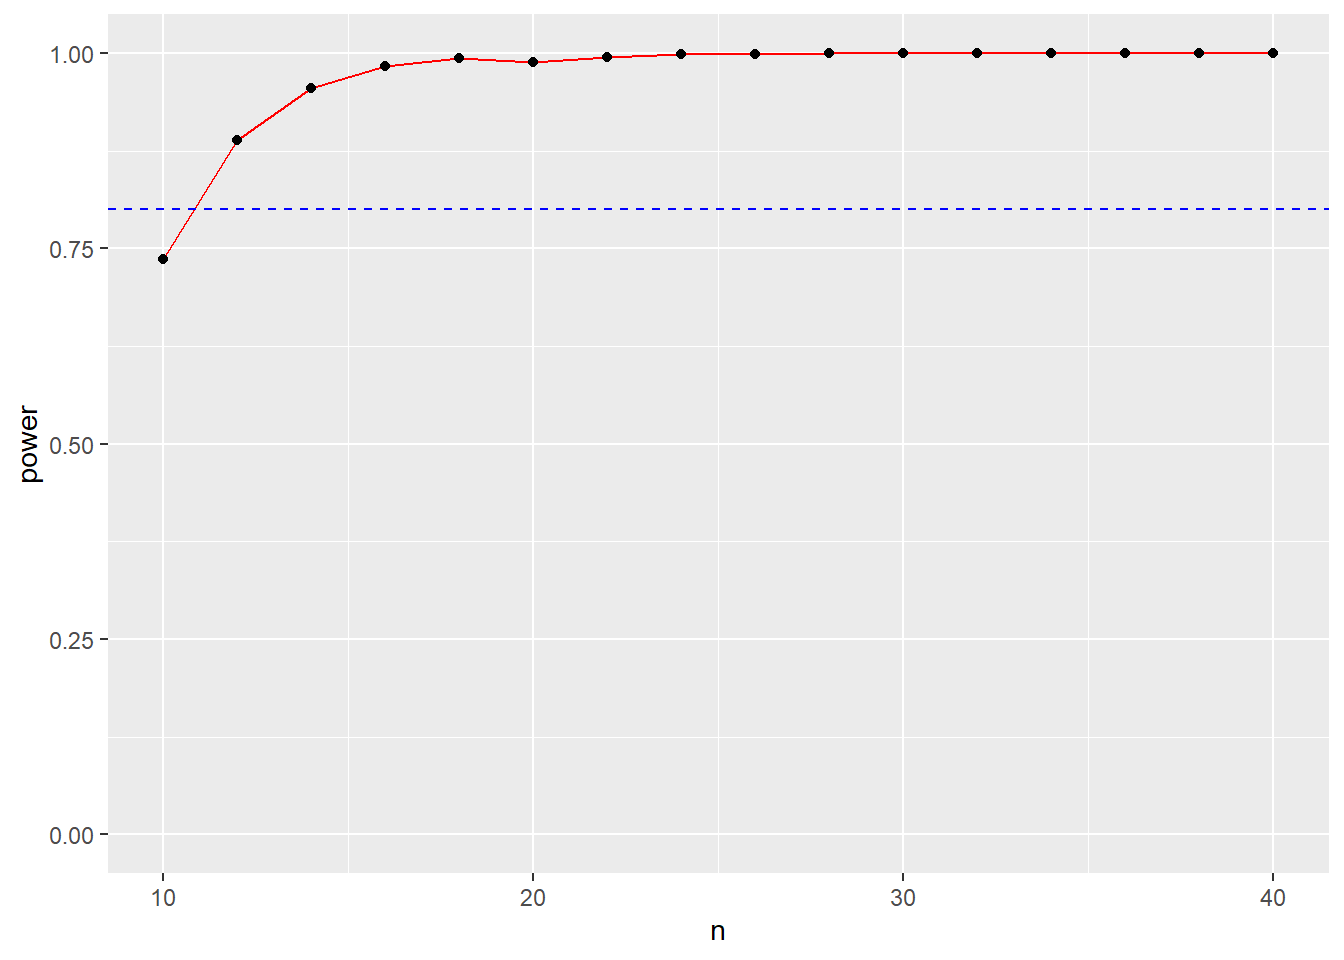
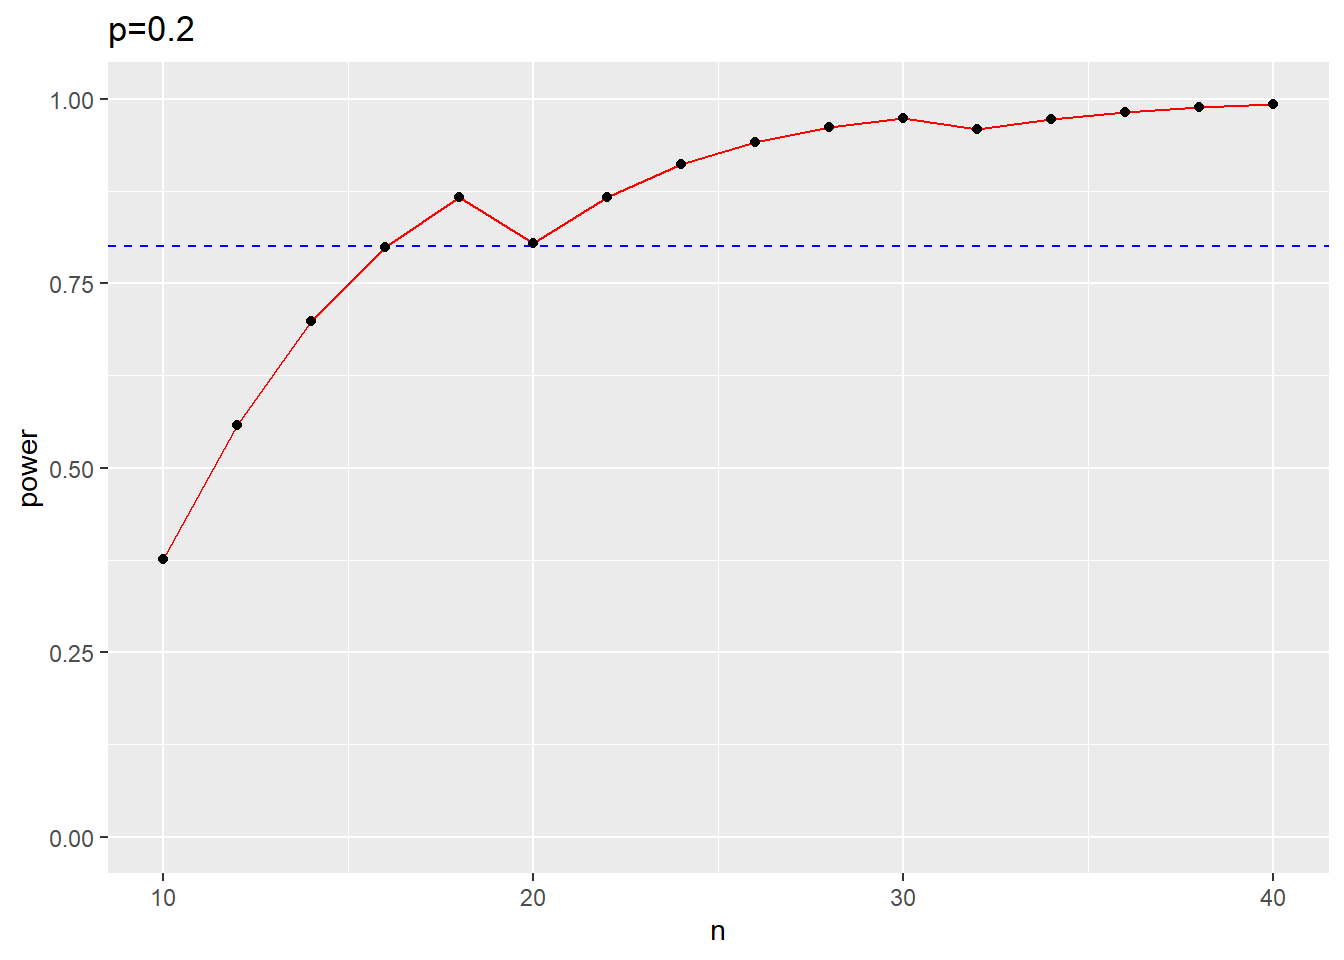
2/9/2022

diff --git a/docs/2022_Feb.html b/docs/2022_Feb.html
@@ -381,7 +381,7 @@ div.tocify {
 <div class="tab-content">
 <div id="summary" class="tab-pane fade in active">
 <p>
-<strong>Last updated:</strong> 2022-02-08
+<strong>Last updated:</strong> 2022-02-09
 </p>
 <p>
 <strong>Checks:</strong> <span class="glyphicon glyphicon-ok text-success" aria-hidden="true"></span> 6 <span class="glyphicon glyphicon-exclamation-sign text-danger" aria-hidden="true"></span> 1
@@ -472,16 +472,16 @@ This reproducible <a href="https://rmarkdown.rstudio.com">R Markdown</a> analysi
 <div class="panel panel-default">
 <div class="panel-heading">
 <p class="panel-title">
-<a data-toggle="collapse" data-parent="#workflowr-checks" href="#strongRepositoryversionstrongahrefhttpsgithubcomhan16Collaborationstreeb036da97acfa0d7bb560536bf6e6b34536bb8462targetblankb036da9a"> <span class="glyphicon glyphicon-ok text-success" aria-hidden="true"></span> <strong>Repository version:</strong> <a href="https://github.com/han16/Collaborations/tree/b036da97acfa0d7bb560536bf6e6b34536bb8462" target="_blank">b036da9</a> </a>
+<a data-toggle="collapse" data-parent="#workflowr-checks" href="#strongRepositoryversionstrongahrefhttpsgithubcomhan16Collaborationstree44241de340205816a0784797eab561173972c046targetblank44241dea"> <span class="glyphicon glyphicon-ok text-success" aria-hidden="true"></span> <strong>Repository version:</strong> <a href="https://github.com/han16/Collaborations/tree/44241de340205816a0784797eab561173972c046" target="_blank">44241de</a> </a>
 </p>
 </div>
[2 lines of base64/hex data omitted]
 <div class="panel-body">
 <p>
 Great! You are using Git for version control. Tracking code development and connecting the code version to the results is critical for reproducibility.
 </p>
 <p>
-The results in this page were generated with repository version <a href="https://github.com/han16/Collaborations/tree/b036da97acfa0d7bb560536bf6e6b34536bb8462" target="_blank">b036da9</a>. See the <em>Past versions</em> tab to see a history of the changes made to the R Markdown and HTML files.
+The results in this page were generated with repository version <a href="https://github.com/han16/Collaborations/tree/44241de340205816a0784797eab561173972c046" target="_blank">44241de</a>. See the <em>Past versions</em> tab to see a history of the changes made to the R Markdown and HTML files.
 </p>
 <p>
 Note that you need to be careful to ensure that all relevant files for the analysis have been committed to Git prior to generating the results (you can use <code>wflow_publish</code> or <code>wflow_git_commit</code>). workflowr only checks the R Markdown file, but you know if there are other scripts or data files that it depends on. Below is the status of the Git repository when the results were generated:
@@ -530,6 +530,40 @@ Message
 </tr>
 </thead>
 <tbody>
+<tr>
+<td>
+Rmd
+</td>
+<td>
+<a href="https://github.com/han16/Collaborations/blob/44241de340205816a0784797eab561173972c046/analysis/2022_Feb.Rmd" target="_blank">44241de</a>
+</td>
+<td>
+Han
+</td>
+<td>
+2022-02-08
+</td>
+<td>
+2/8/2022
+</td>
+</tr>
+<tr>
+<td>
+html
+</td>
+<td>
+<a href="https://rawcdn.githack.com/han16/Collaborations/44241de340205816a0784797eab561173972c046/docs/2022_Feb.html" target="_blank">44241de</a>
+</td>
+<td>
+Han
+</td>
+<td>
+2022-02-08
+</td>
+<td>
+2/8/2022
+</td>
+</tr>
 <tr>
 <td>
 Rmd
@@ -626,17 +660,28 @@ Han
 <pre class="r"><code>n=seq(10, 40, by=2) # vary sample size from 10 to 40
 p0=0.5
 k=qbinom(0.05, n, p0)-1 # significance level 0.05; p_0=0.5 
+pa=0.3 # pa is any value within H_a
+power=pbinom(k, n, pa) # calculate power when p=pa
+ggplot(data=data.frame(n, k, power), aes(x=n, y=power, group=1)) +
+  geom_line(color=&quot;red&quot;)+
+  geom_hline(yintercept=0.8, linetype=&quot;dashed&quot;, color = &quot;blue&quot;)+
+  geom_point()+
+  ylim(c(0,1))+
+  ggtitle(&quot;p=0.3&quot;)</code></pre>
+<p><img src="figure/2022_Feb.Rmd/unnamed-chunk-3-1.png" width="672" style="display: block; margin: auto;" /></p>
+<pre class="r"><code>n=seq(10, 40, by=2) # vary sample size from 10 to 40
+p0=0.5
+k=qbinom(0.05, n, p0)-1 # significance level 0.05; p_0=0.5 
 pa=0.2 # pa is any value within H_a
 power=pbinom(k, n, pa) # calculate power when p=pa
 ggplot(data=data.frame(n, k, power), aes(x=n, y=power, group=1)) +
   geom_line(color=&quot;red&quot;)+
   geom_hline(yintercept=0.8, linetype=&quot;dashed&quot;, color = &quot;blue&quot;)+
   geom_point()+
-  ylim(c(0,1))#+</code></pre>
-<p><img src="figure/2022_Feb.Rmd/unnamed-chunk-3-1.png" width="672" style="display: block; margin: auto;" /></p>
-<pre class="r"><code>  #ggtitle(&quot;p=0.2&quot;)
-  
-n=seq(10, 40, by=2) # vary sample size from 10 to 40 
+  ylim(c(0,1))+
+  ggtitle(&quot;p=0.2&quot;)</code></pre>
+<p><img src="figure/2022_Feb.Rmd/unnamed-chunk-3-2.png" width="672" style="display: block; margin: auto;" /></p>
+<pre class="r"><code>n=seq(10, 40, by=2) # vary sample size from 10 to 40 
 k=qbinom(0.05, n, p0)-1 # significance level 0.05; p_0=0.5 
 pa=0.1 # pa is any value within H_a
 power=pbinom(k, n, pa) # calculate power when p=pa
@@ -644,12 +689,10 @@ ggplot(data=data.frame(n, k, power), aes(x=n, y=power, group=1)) +
   geom_line(color=&quot;red&quot;)+
   geom_hline(yintercept=0.8, linetype=&quot;dashed&quot;, color = &quot;blue&quot;)+
   geom_point()+
-  ylim(c(0,1))#+</code></pre>
-<p><img src="figure/2022_Feb.Rmd/unnamed-chunk-3-2.png" width="672" style="display: block; margin: auto;" /></p>
-<pre class="r"><code>  #ggtitle(&quot;p=0.1&quot;)
-
-
-n=32
+  ylim(c(0,1))+
+  ggtitle(&quot;p=0.1&quot;)</code></pre>
+<p><img src="figure/2022_Feb.Rmd/unnamed-chunk-3-3.png" width="672" style="display: block; margin: auto;" /></p>
+<pre class="r"><code>n=32
 p0=0.5
 k=qbinom(0.05, n, p0)-1 # significance level 0.05; p_0=0.5 
 pa=seq(0, p0, by=0.1)
@@ -659,7 +702,7 @@ ggplot(data=data.frame(n, k, power), aes(x=pa, y=power, group=1)) +
   geom_hline(yintercept=0.8, linetype=&quot;dashed&quot;, color = &quot;blue&quot;)+
   geom_point()+
   ylim(c(0,1))</code></pre>
-<p><img src="figure/2022_Feb.Rmd/unnamed-chunk-3-3.png" width="672" style="display: block; margin: auto;" /></p>
+<p><img src="figure/2022_Feb.Rmd/unnamed-chunk-3-4.png" width="672" style="display: block; margin: auto;" /></p>
 </div>
 <div id="two-sample-proportion-test" class="section level3">
 <h3>two sample proportion test</h3>
